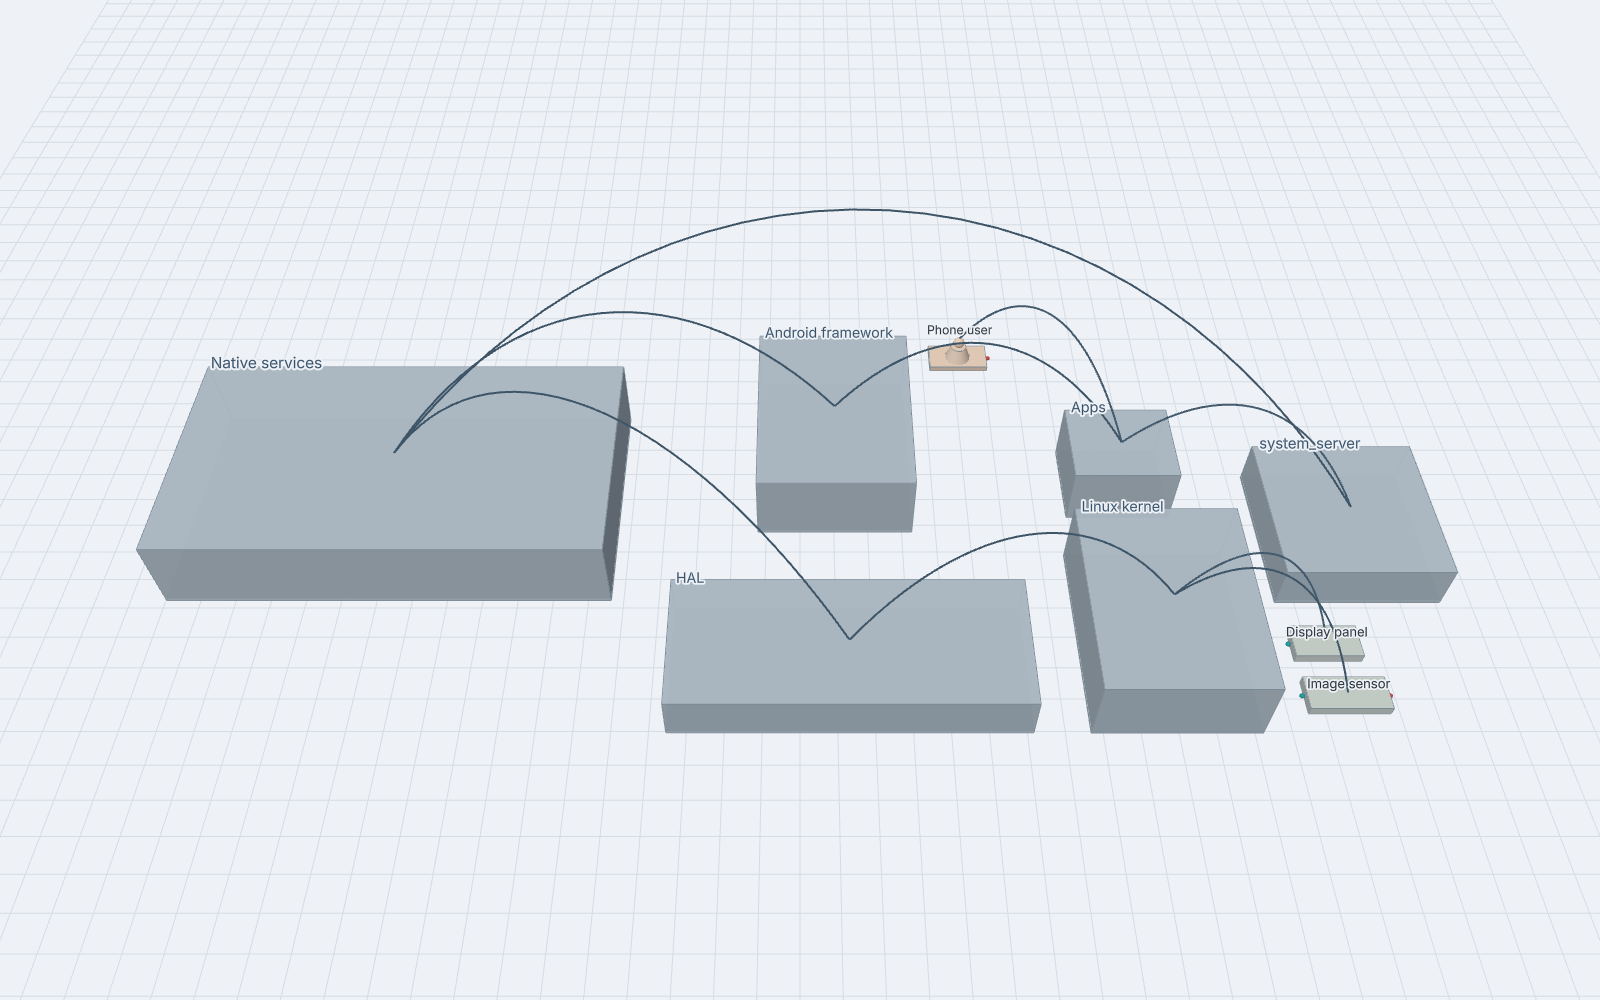
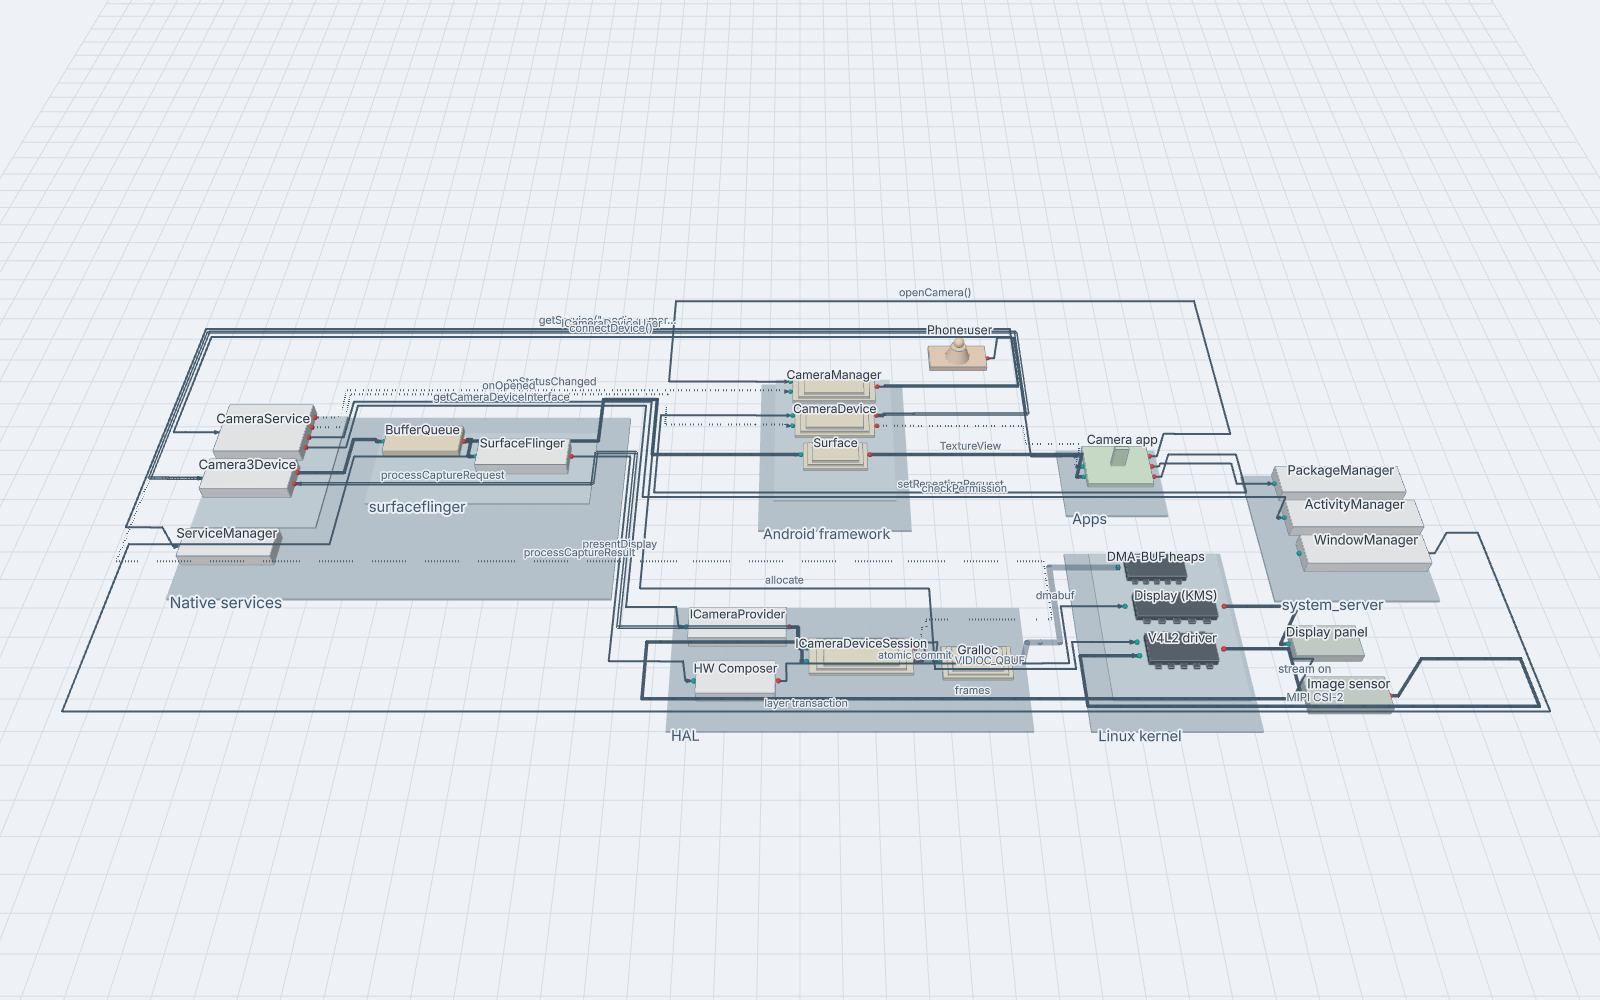
Re-render the example pictures for 0.3.0

diff --git a/docs/USER_GUIDE.md b/docs/USER_GUIDE.md
@@ -409,7 +409,7 @@ ImageSensor.mipi         >> V4L2Driver.mipi            : MIPI CSI-2
 CameraDeviceHal          <> Gralloc                    : gralloc buffers
 ```
 
-| The whole stack from far (one arc between two layers) | The HAL from close, `CameraDeviceHal` selected |
+| The whole stack from far: every layer is open because what is inside is readable | The HAL from close, `CameraDeviceHal` selected |
 |---|---|
 | ![AOSP far](../examples/07-aosp-camera.png) | ![AOSP HAL](../examples/07-aosp-camera-hal.png) |
 
